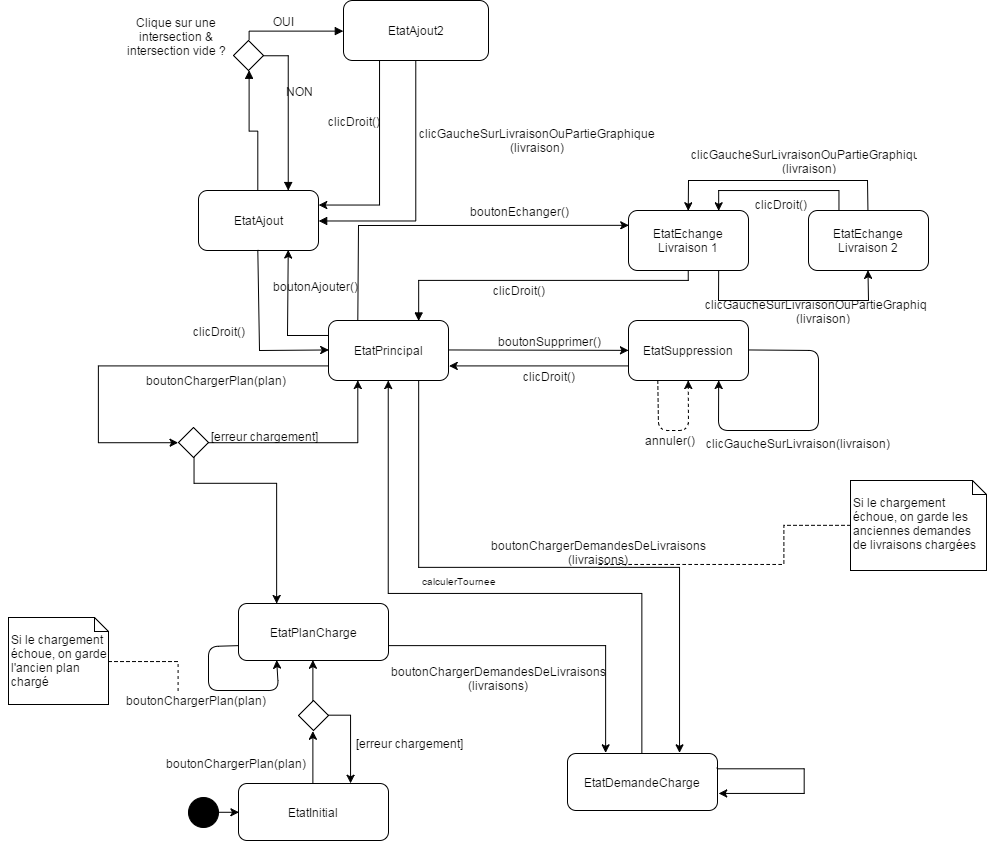
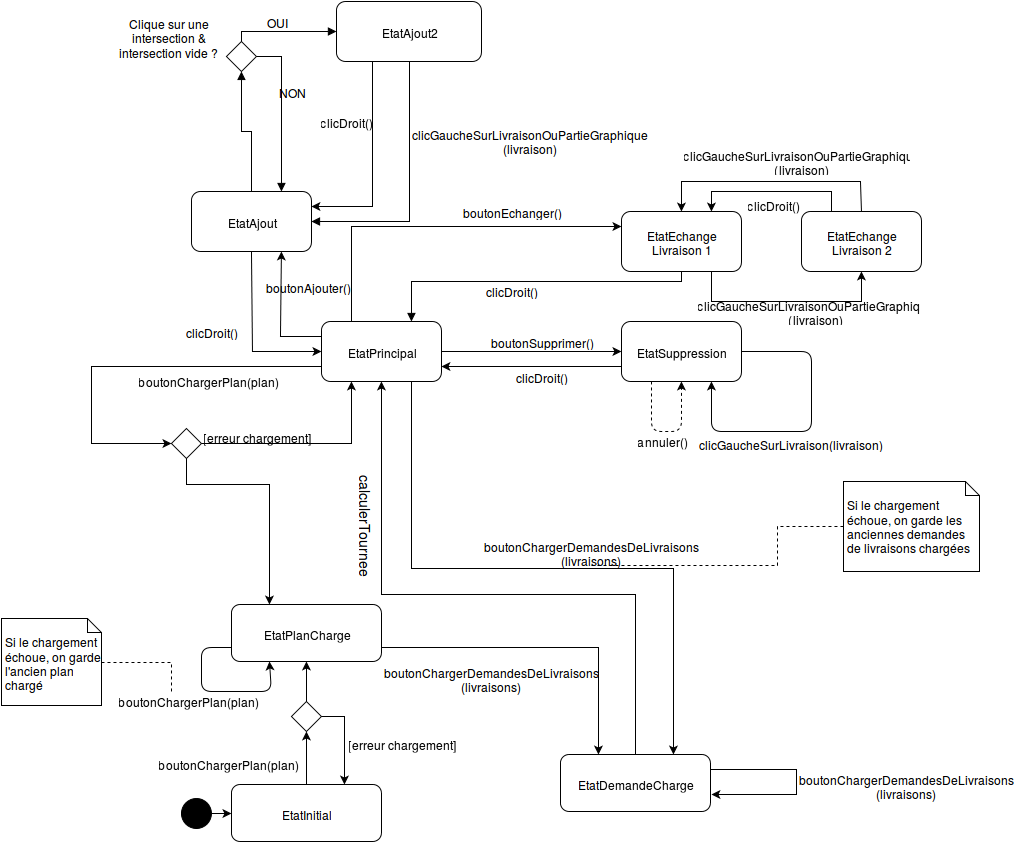
Maj echelles images et diagramme etat-transition

diff --git a/renducompte/compte-rendu.tex b/renducompte/compte-rendu.tex
@@ -105,14 +105,14 @@ Le planning prévisionnel du projet s'est déroulé en trois étapes. Tout d'abo
 ~\\Dans la troisième et dernière étape, nous avons estimé le temps nécessaire pour réaliser ces tâches en utilisant redmine.
 \begin{figure}
     \centering
-    \includegraphics[scale=0.25]{redmine.png}
+    \includegraphics[scale=0.38]{redmine.png}
     \caption{Capture d'écran de la gestion du projet avec redmine} 
 \end{figure}
 
 \section{Modèle du domaine}
 \begin{figure}[h!]
     \centering
-    \includegraphics[scale=0.35]{dia-mod.jpg}
+    \includegraphics[scale=0.5]{dia-mod.jpg}
     \caption{Diagramme du modèle}
 \end{figure}
 \section{Glossaire}
@@ -163,7 +163,7 @@ Le planning prévisionnel du projet s'est déroulé en trois étapes. Tout d'abo
 \section{Diagramme de cas d'utilisation}
 \begin{figure}[h!]
     \centering
-    \includegraphics[scale=0.28]{cu.png}
+    \includegraphics[scale=0.35]{cu.png}
     \caption{Diagramme de cas d'utilisation}
 \end{figure}
 \section{Description textuelle structurée des cas d'utilisation}
@@ -393,7 +393,7 @@ Le système indique l’erreur à l'utilisateur et retourne à affichage du plan
 \subsection{Diagramme états-transitions}
 \begin{figure}[h!]
     \centering
-    \includegraphics[scale=0.35]{diag-et-trans.png}
+    \includegraphics[scale=0.5]{diag-et-trans.png}
     \caption{Diagramme des états et transitions}
 \end{figure}
 \newpage
@@ -407,17 +407,17 @@ Il s'agit des diagrammes de conception. Ils ne correspondent pas forcement à l'
     \caption{Packages}
 \end{figure}
 \newpage
-\subsection{Controleur}
+\subsection{Contrôleur}
 \begin{figure}[h!]
 	%\advance\leftskip-3cm
-    \includegraphics[scale=0.30]{controleur.png}
+    \includegraphics[scale=0.38]{controleur.png}
     \caption{Diagramme des classes du \textit{controleur}}
 \end{figure}
 \newpage
 \subsection{Modele}
 \begin{figure}[h!]
     \centering
-    \includegraphics[scale=0.28]{modele.png}
+    \includegraphics[scale=0.35]{modele.png}
     \caption{Diagramme des classes du \textit{modele}}
 \end{figure}
 \newpage
@@ -472,7 +472,7 @@ Pour la \textit{déserialisation} des fichiers XML, on mis en place une classe s
 \section{Diagramme de séquence du calcul de la tournée à partir d'une demande de livraison}
 \begin{figure}[h!]
     \centering
-    \includegraphics[scale=0.28]{tournee2.png}
+    \includegraphics[scale=0.37]{tournee2.png}
     \caption{DSS calcul de la tournee}
 \end{figure}
 \chapter{Implémentation et tests}
@@ -490,25 +490,25 @@ Pour consulter le javadoc du prototype, veuillez regarder directement le dossier
 \newpage
 \begin{figure}[h!]
     \centering
-    \includegraphics[scale=0.35]{DcEtat.png}
+    \includegraphics[scale=0.4]{DcEtat.png}
     \caption{Package Etat}
 \end{figure}
 \begin{figure}[h!]
     \centering
-    \includegraphics[scale=0.35]{DcObservateur.png}
+    \includegraphics[scale=0.4]{DcObservateur.png}
     \caption{Package Observeurs}
 \end{figure}
 \subsection{Modele}
 \begin{figure}[h!]
     \centering
-    \includegraphics[scale=0.40]{DcPersistance.png}
+    \includegraphics[scale=0.5]{DcPersistance.png}
     \caption{Package Persistance}
 \end{figure}
 \newpage
 \subsection{Vue}
 \begin{figure}[h!]
     \centering
-    \includegraphics[scale=0.28]{DcVue.png}
+    \includegraphics[scale=0.33]{DcVue.png}
     \caption{Package Vue}
 \end{figure}
 \chapter{Bilan}
